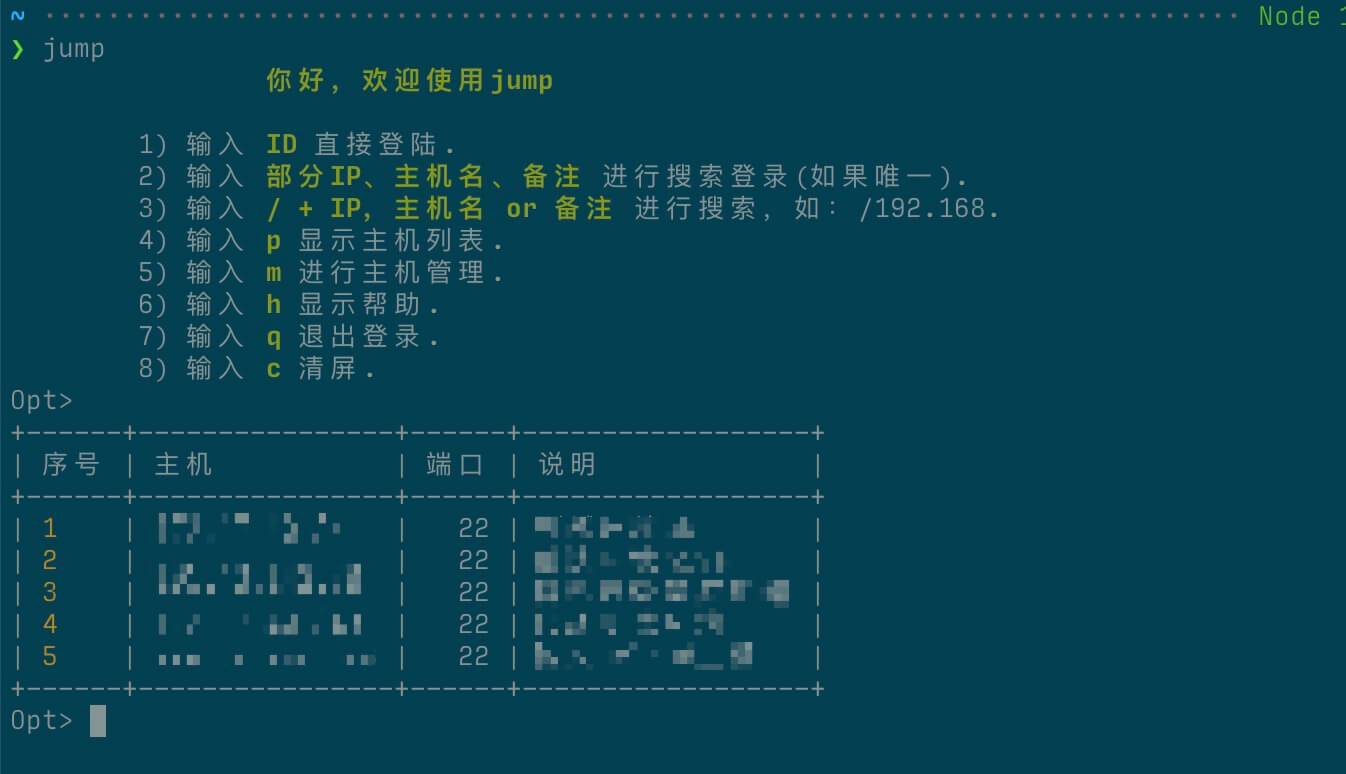
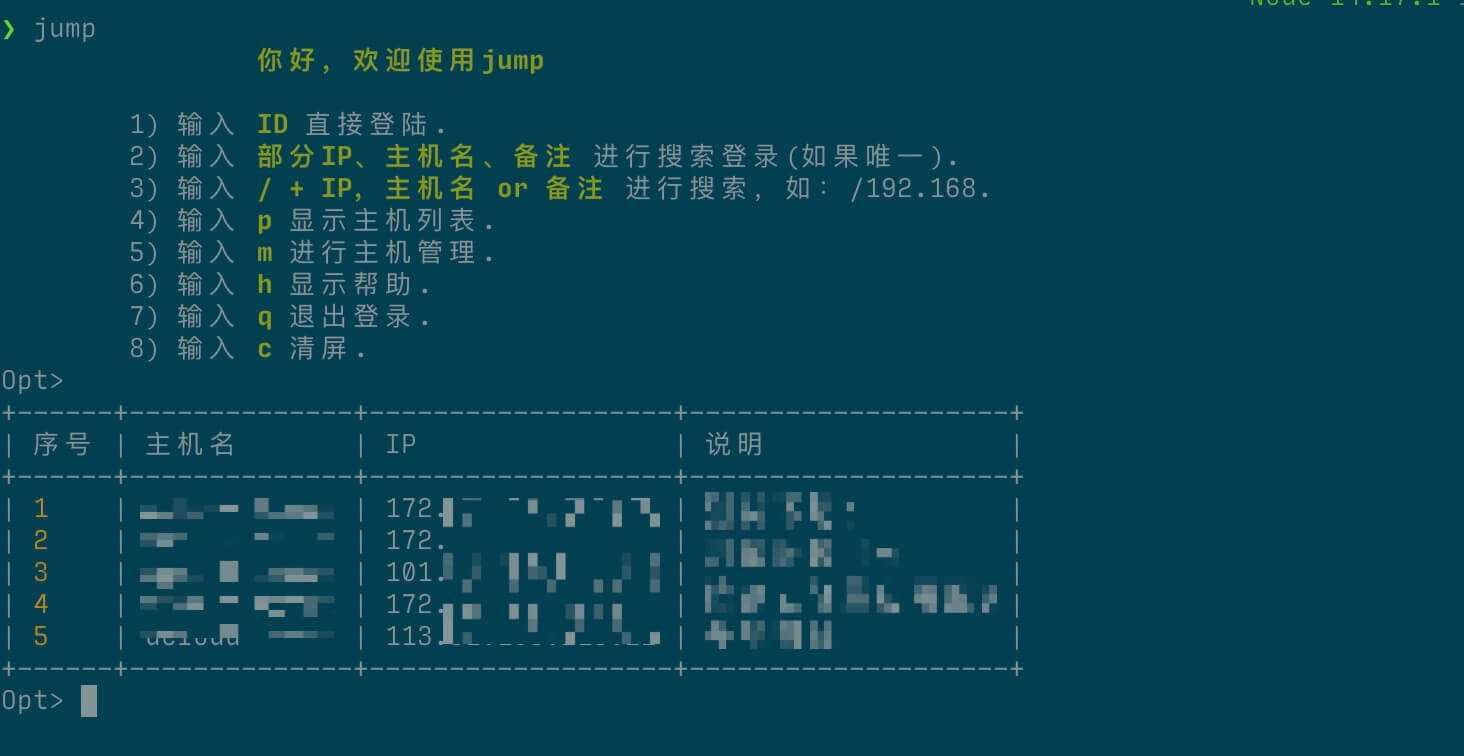
fix

diff --git a/core/entry.go b/core/entry.go
@@ -147,13 +147,22 @@ func (it *InteractiveTerminal) editMode(cmd string) {
 }
 
 func scanHost(host *model.Host) {
+	// 主机名
+	fmt.Printf("请输入主机名称: ")
+	fmt.Scanln(&host.Hostname)
+	host.Hostname = strings.TrimSpace(host.Hostname)
+	for host.Hostname == "" {
+		fmt.Printf("请输入主机名称: ")
+		fmt.Scanln(&host.Hostname)
+	}
+
 	// ip
-	fmt.Printf("请输入主机Host: ")
-	fmt.Scanln(&host.Host)
-	host.Host = strings.TrimSpace(host.Host)
-	for host.Host == "" {
-		fmt.Printf("请输入主机Host: ")
-		fmt.Scanln(&host.Host)
+	fmt.Printf("请输入主机ip: ")
+	fmt.Scanln(&host.IP)
+	host.IP = strings.TrimSpace(host.IP)
+	for host.IP == "" {
+		fmt.Printf("请输入主机ip: ")
+		fmt.Scanln(&host.IP)
 	}
 
 	// 端口
@@ -258,14 +267,14 @@ func PrintHosts(hosts []model.Host) {
 
 	t := table.NewWriter()
 	t.SetOutputMirror(os.Stdout)
-	t.AppendHeader(table.Row{"序号", "主机", "端口", "说明"})
+	t.AppendHeader(table.Row{"序号", "主机名", "IP", "说明"})
 
 	rows := make([]table.Row, 0, len(hosts))
 	for _, host := range hosts {
 		rows = append(rows, table.Row{
 			color.YellowString(strconv.Itoa(host.ID)),
-			host.Host,
-			host.Port,
+			host.Hostname,
+			fmt.Sprintf("%s:%d", host.IP, host.Port),
 			host.Desc,
 		})
 	}

diff --git a/dao/host.go b/dao/host.go
@@ -6,8 +6,8 @@ import "github.com/funnyang/jump/model"
 func (d *Dao) MatchHost(keyword string) (hosts []model.Host, err error) {
 	keyword = "%" + keyword + "%"
 	err = d.db.Where("id like ?", keyword).
-		Or("host like ?", keyword).
-		Or("port like ?", keyword).
+		Or("hostname like ?", keyword).
+		Or("ip like ?", keyword).
 		Or("Desc like ?", keyword).Find(&hosts).Error
 	return
 }
@@ -15,7 +15,8 @@ func (d *Dao) MatchHost(keyword string) (hosts []model.Host, err error) {
 // ExactMatchHost 基于关键字精确匹配
 func (d *Dao) ExactMatchHost(keyword string) (hosts []model.Host, err error) {
 	err = d.db.Where("id = ?", keyword).
-		Or("host = ?", keyword).Find(&hosts).Error
+		Or("hostname = ?", keyword).
+		Or("ip = ?", keyword).Find(&hosts).Error
 	return
 }
 
@@ -41,6 +42,6 @@ func (d *Dao) UpdateHost(host model.Host) error {
 
 // GetHost 查询host
 func (d *Dao) GetHost(id int) (host model.Host, err error) {
-	err = d.db.First(&host).Error
+	err = d.db.Where("id = ?", id).First(&host).Error
 	return
 }

diff --git a/model/host.go b/model/host.go
@@ -4,7 +4,8 @@ import "time"
 
 type Host struct {
 	ID               int       // id
-	Host             string    // 主机ip
+	Hostname         string    // 主机名
+	IP               string    // 主机ip
 	Port             int       // 端口
 	User             string    // 用户
 	Password         string    // 密码

diff --git a/sshutil/ssh.go b/sshutil/ssh.go
@@ -47,7 +47,7 @@ func NewSSHClient(host model.Host) (*SSHClient, error) {
 	}
 
 	//dial 获取ssh client
-	addr := fmt.Sprintf("%s:%d", host.Host, host.Port)
+	addr := fmt.Sprintf("%s:%d", host.IP, host.Port)
 	sshClient, err := ssh.Dial("tcp", addr, config)
 	if err != nil {
 		return nil, err

diff --git a/dao/dao_test.go b/dao/dao_test.go
@@ -13,7 +13,7 @@ func TestGetDB(t *testing.T) {
 
 func TestInsertHost(t *testing.T) {
 	var host = model.Host{
-		Host:     "127.0.0.1",
+		IP:       "127.0.0.1",
 		Port:     22,
 		User:     "zz",
 		Password: "123456",
